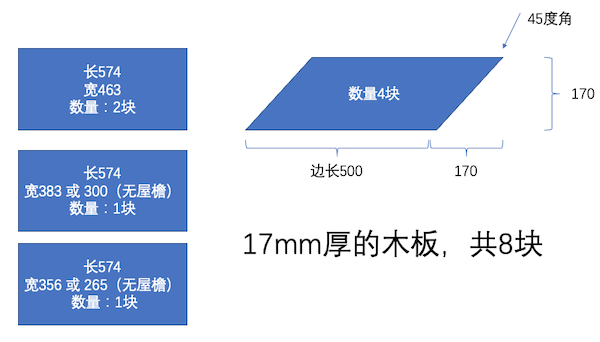
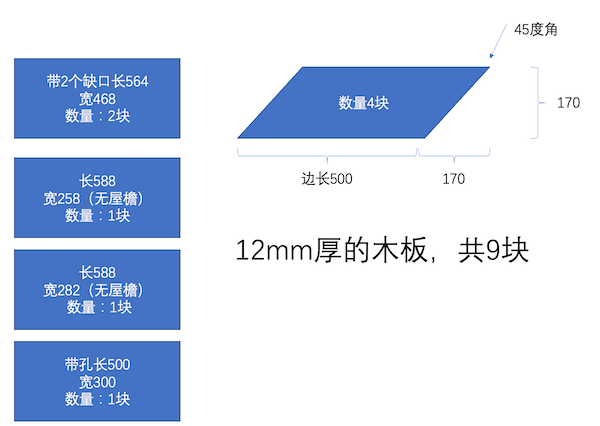
变更为12mm木板

diff --git a/README.md b/README.md
@@ -13,11 +13,13 @@ Email邮箱：hongming@huiyi.org
 
 ## 基本物料
 * 欧版2020铝型材
-* 17毫米木板
+* 12毫米木板
 * 20毫米木板
 * 电动推杆
 
 ## 结构演示
+![](/images/2022-02-10 11.52.13pm.png)
+
 ![](/images/2022-01-08%202.02.30%20pm.png)
 
 **框架搭建**
